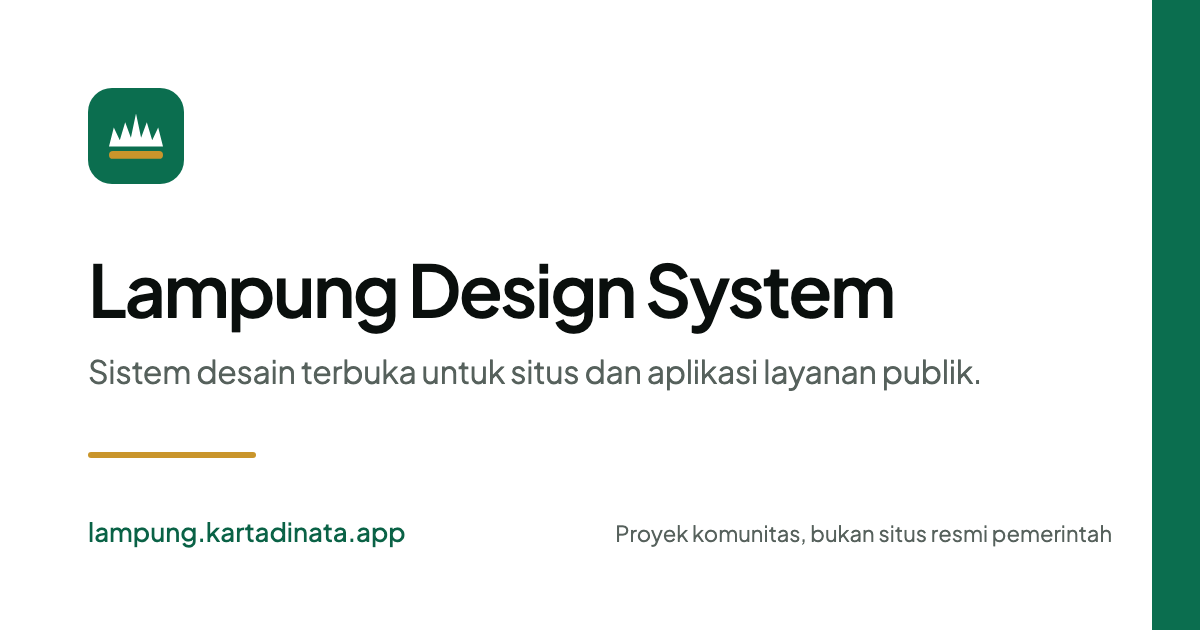
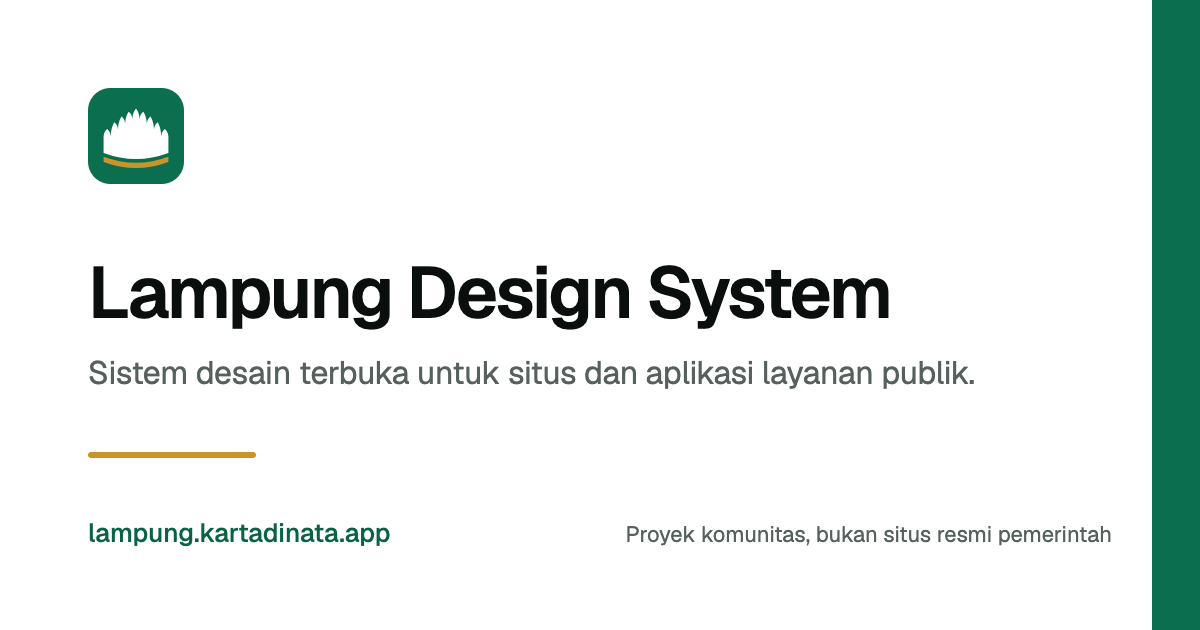
feat(landing): redraw the open graph image with siger and geist

diff --git a/apps/landing/README.md b/apps/landing/README.md
@@ -9,7 +9,7 @@ The promotional page for Lampung Design System (LDS), an unofficial, open source
 | `landing.css` | Page layout only (frame, grids, swatches). Reads tokens, works in light and dark |
 | `landing.js` | ES module that imports `/js/lds.js`: theme toggle, token sample switcher, the preview form, copy fallback |
 | `favicon.svg` | Browser icon |
-| `og.svg`, `og.png` | Open Graph image, 1200 by 630. `og.png` is a raster of `og.svg` drawn in Plus Jakarta Sans; redraw it whenever `og.svg` changes |
+| `og.svg`, `og.png` | Open Graph image, 1200 by 630. `og.png` is a raster of `og.svg` drawn in Geist; redraw it whenever `og.svg` changes |
 
 ## Run it locally
 
